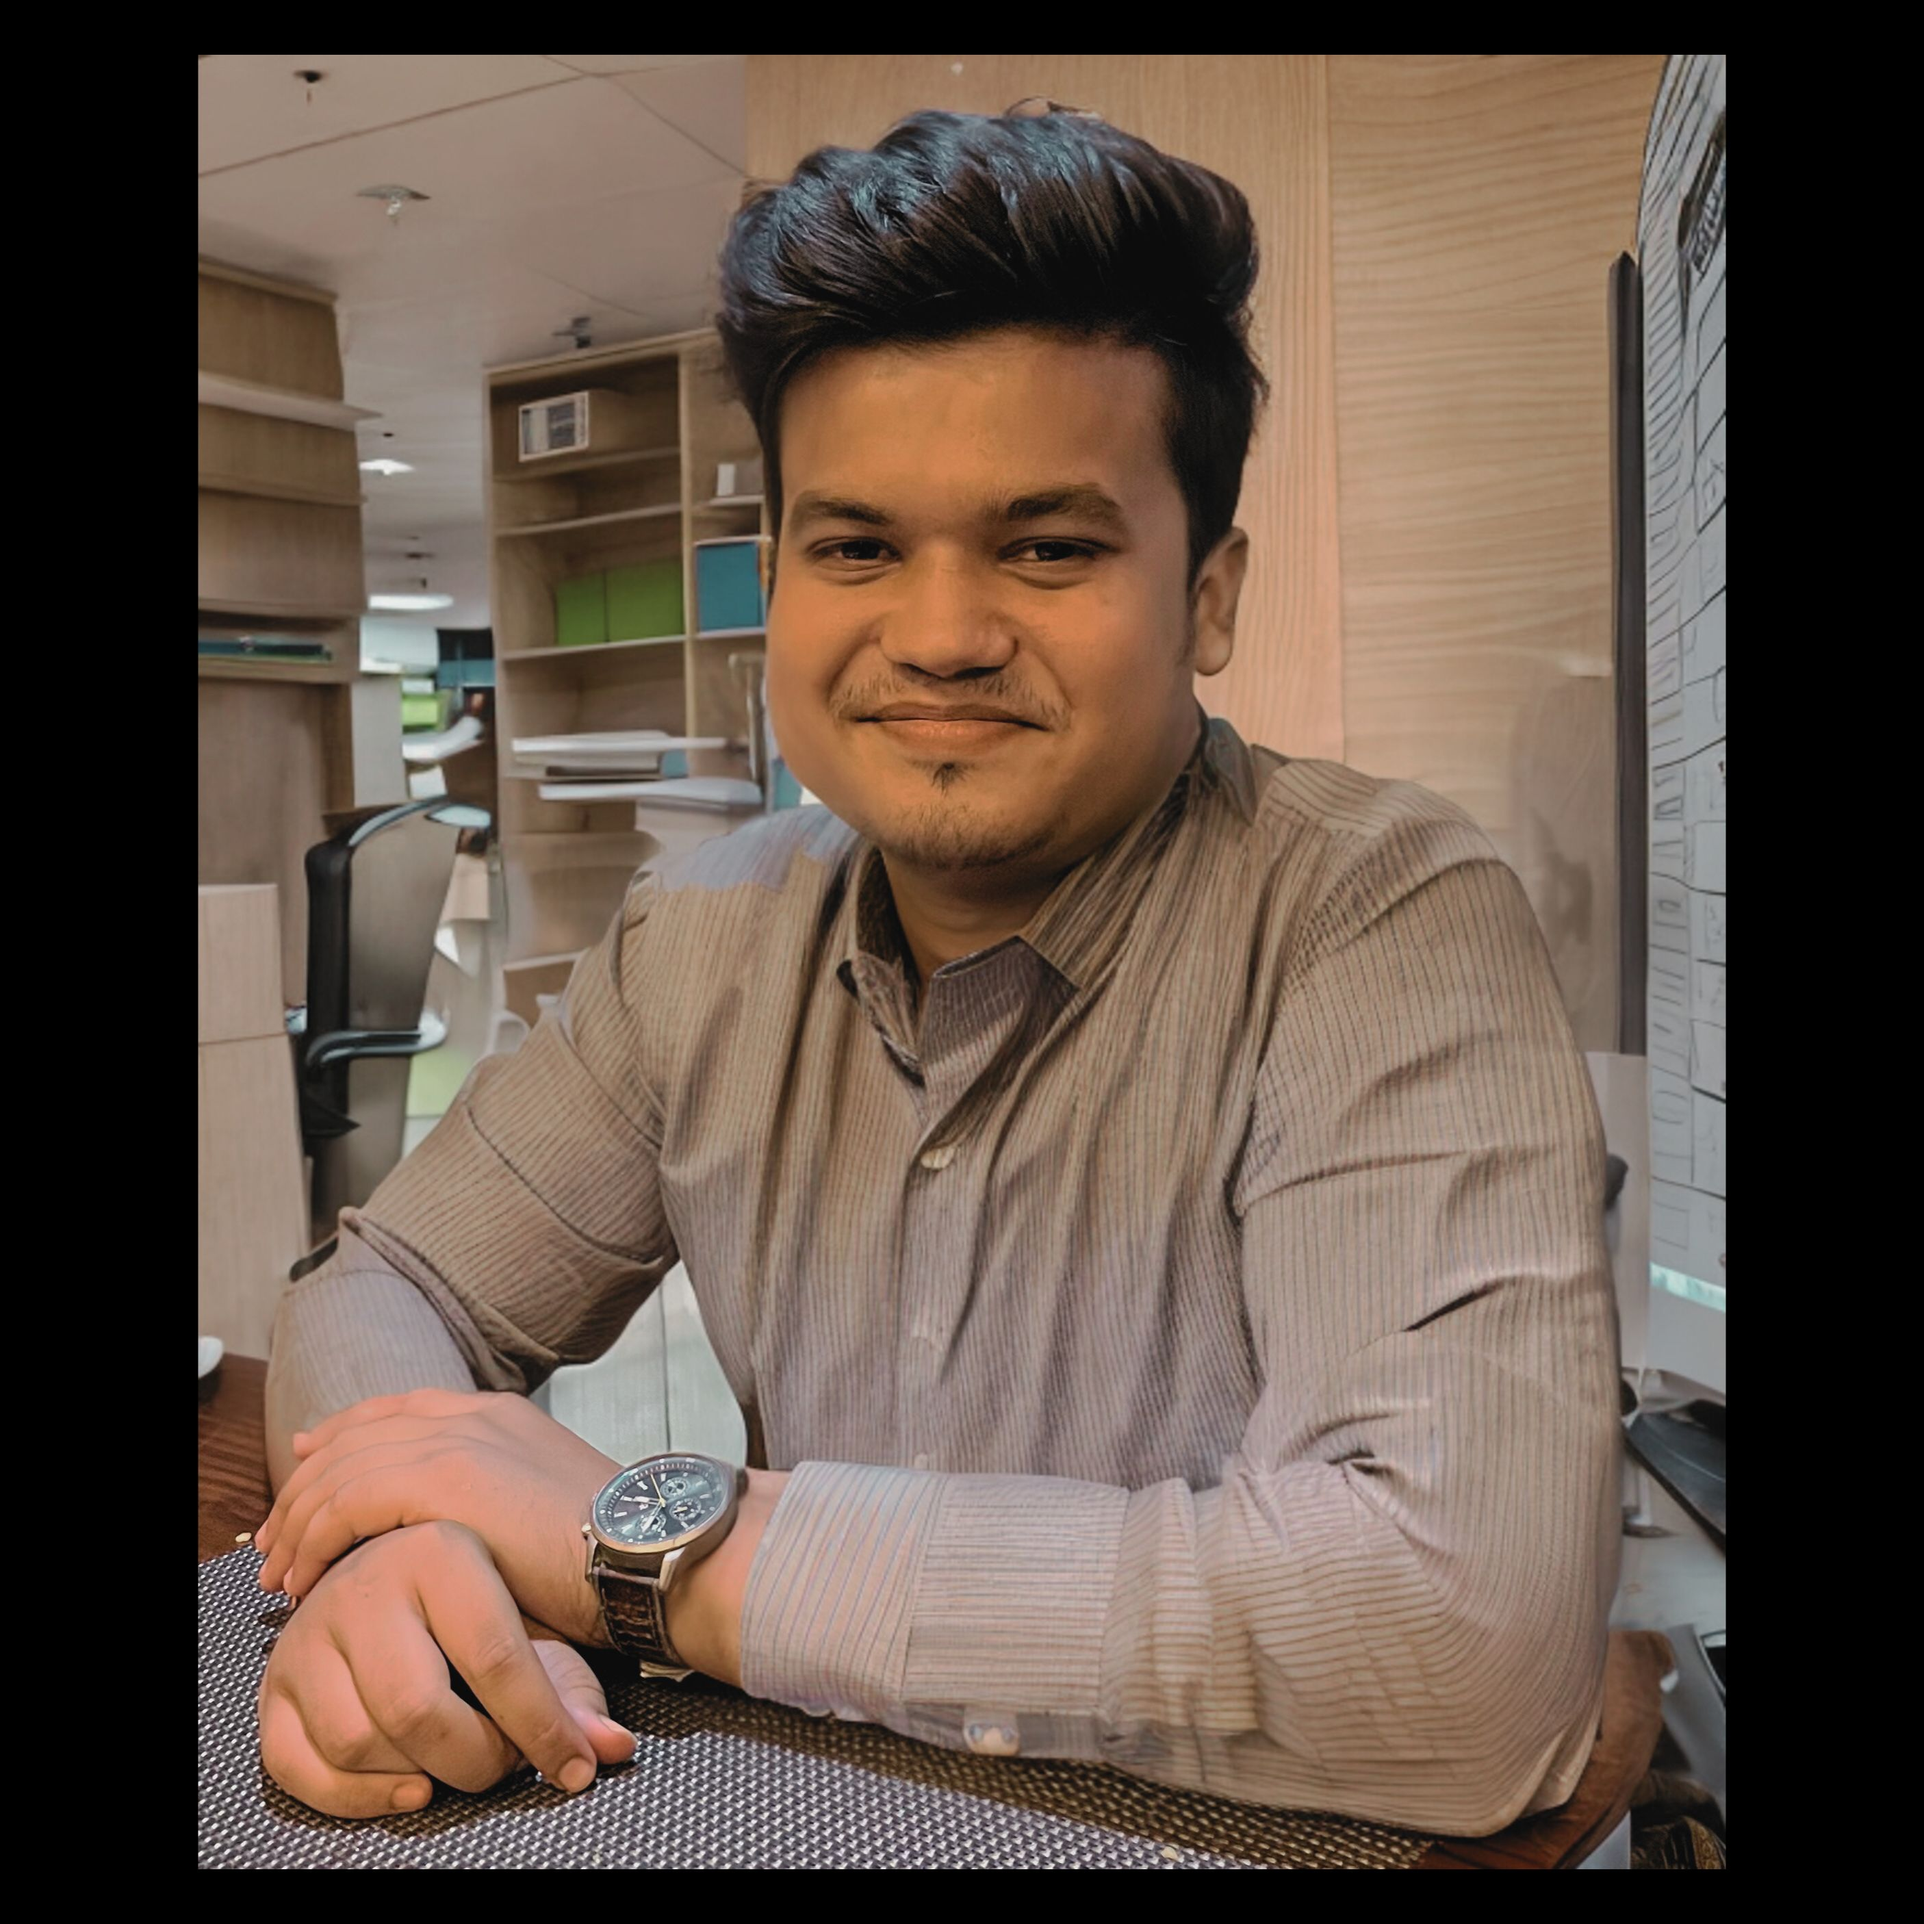
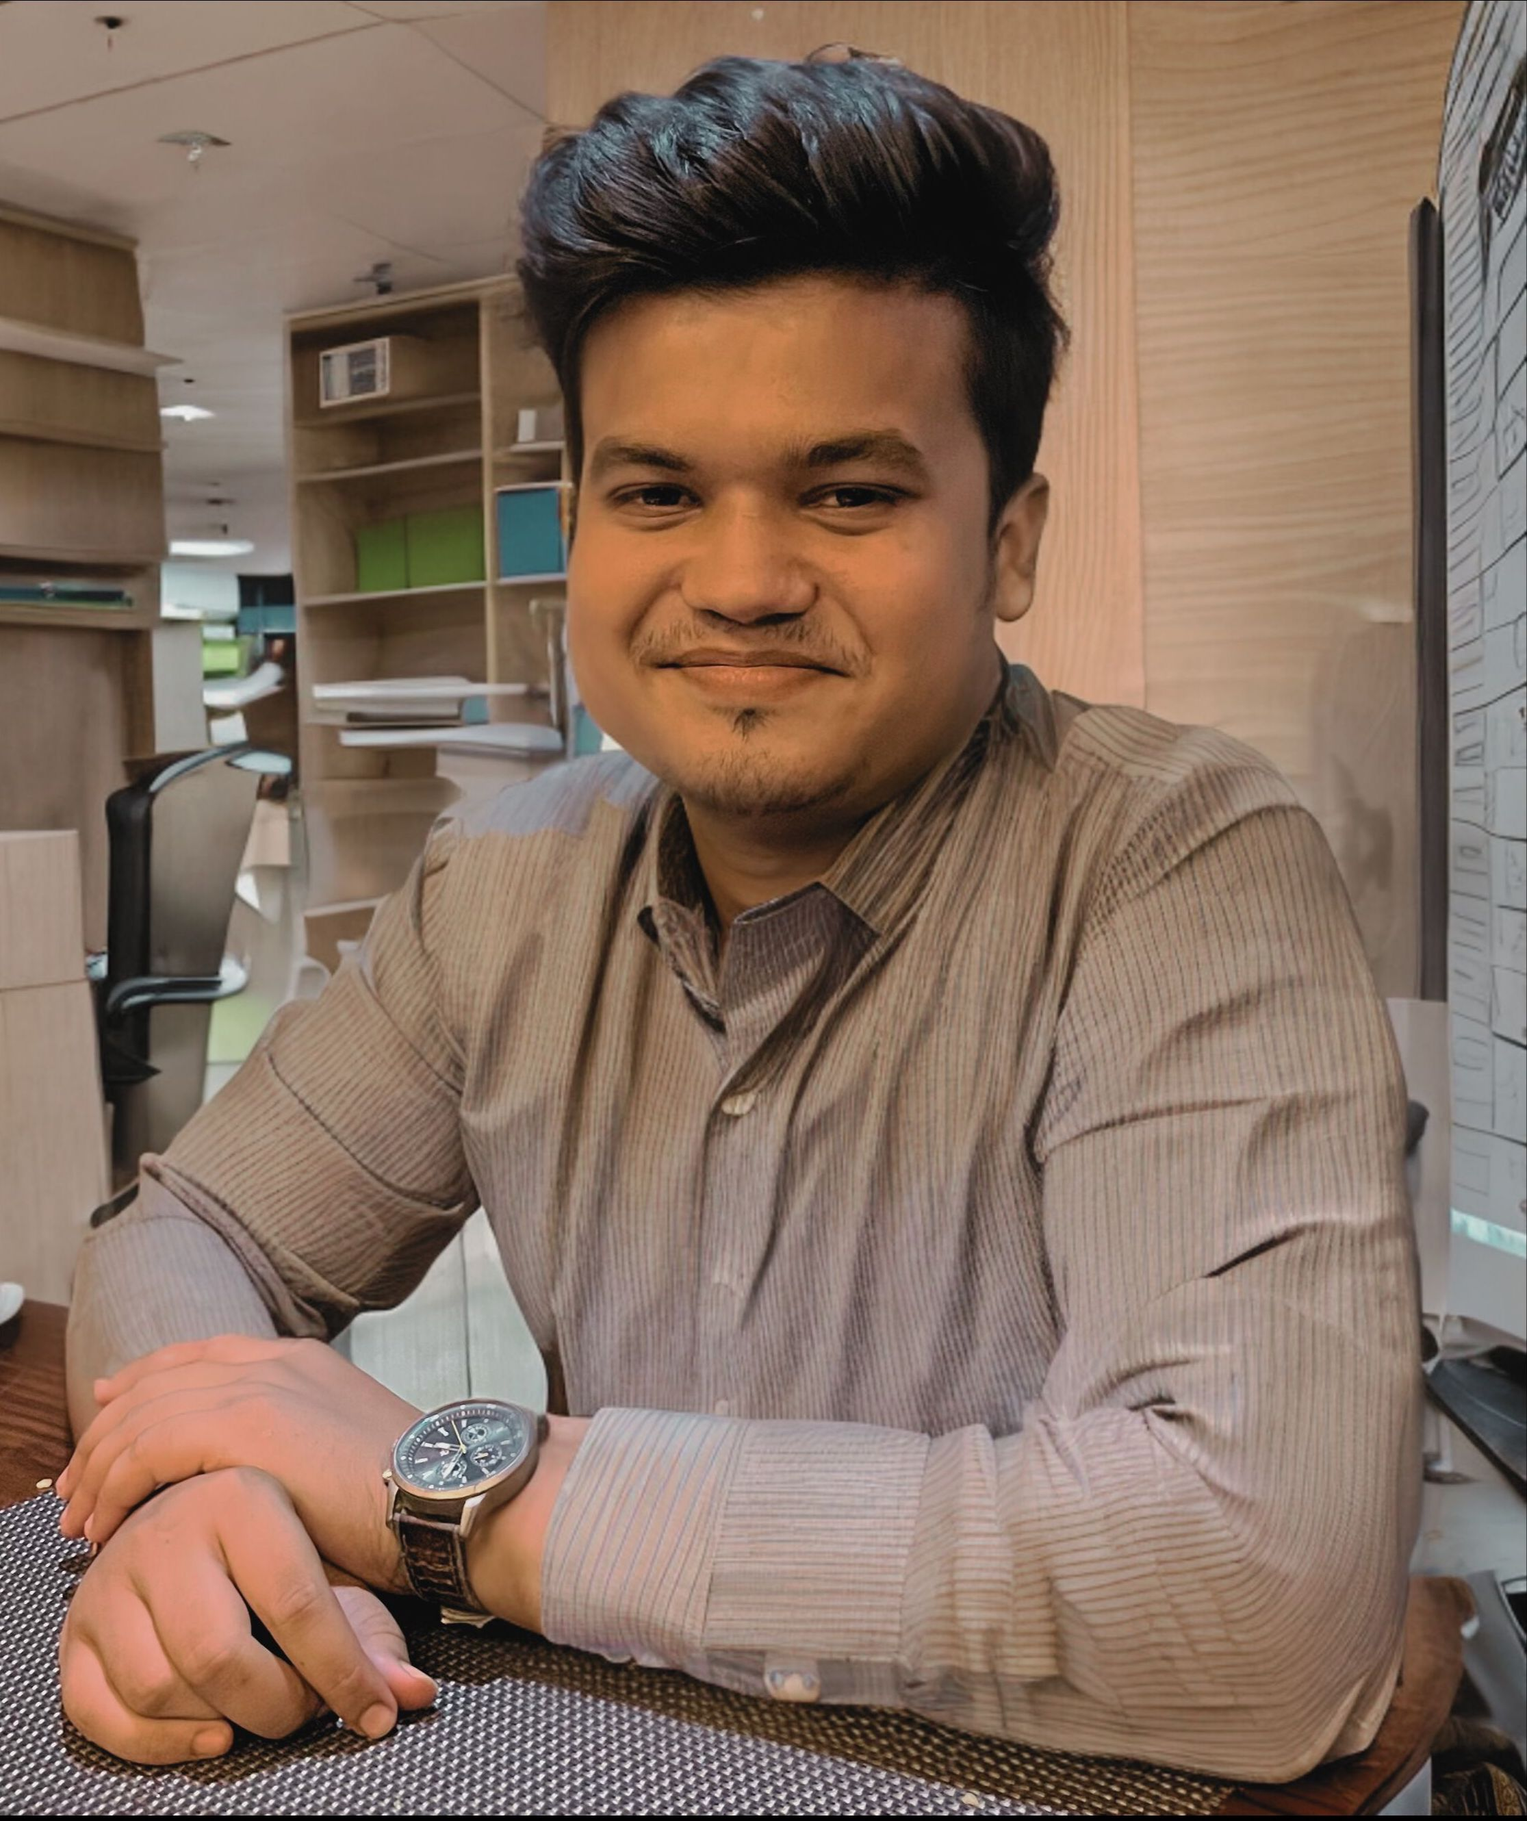
refactor: added backdrop and refactored heading

diff --git a/Styles.css b/Styles.css
@@ -1,4 +1,5 @@
 @import url('https://fonts.googleapis.com/css2?family=Bricolage+Grotesque:opsz,wght@10..48,200;10..48,400;10..48,800&display=swap');
+@import url('https://fonts.googleapis.com/css2?family=Montserrat:wght@100&display=swap');
 
 :root{
 --black: hsla(0, 0%, 0%, 1);
@@ -7,11 +8,12 @@
 --platinum: rgb(238, 238, 238);
 --white: hsla(0, 0%, 100%, 1);
 --red: #ff206e;
+--eerie-black: #040a0f;
 --gradient: linear-gradient(90deg, rgba(252,163,17,1) 30%, rgba(255,32,110,1) 100%);
 }
 body{
     font-family: 'Bricolage Grotesque', sans-serif;
-    background-color: var(--black);
+    background-color: var(--eerie-black);
     margin: 0;
     color: var(--white);
     
@@ -100,7 +102,7 @@ ul{
 
 nav {
     background: linear-gradient(90deg, rgba(252,163,17,1) 30%, rgba(255,32,110,1) 100%);
-    padding: 1rem;
+    padding: 0.001rem 1rem;
     /* border-radius: 0rem 1rem; */
 }
 nav .link{
@@ -150,12 +152,36 @@ section h2{
 }
 .img--id{
     height:20rem ;
-    width:20.2rem ;
+    width:17rem ;
     display: block;
     margin: auto;
-    border-radius: 5rem;
+    border-radius: 1rem;
 
 }
+
+/* @backdrop */
+.backdrop{
+    display: block;
+    background-image: url('images/backdrop-4.jpeg');
+    height: 30rem;
+    padding: 0rem 0rem;
+    background-size: cover;
+    overflow: hidden;
+    margin-bottom: 1rem;
+    transition-duration: 3000ms;
+}
+.heading--backdrop{
+    
+    font-size: 3rem;
+    text-align: center;
+    font-family: 'Montserrat', sans-serif;
+    backdrop-filter: brightness(60%) blur(3px);
+    display: block;
+    padding: 13rem 0rem;
+    margin: 0 0; 
+}
+
+
 /* @footer */
 
 footer{

diff --git a/Index.html b/Index.html
@@ -15,11 +15,9 @@
             <li class="list-item-inline"><a href="\" class="link">Blogs</a></li>
         </ul>
     </nav>
-    <br>
-    <header class="hero">
-        <img class="hero--img" src="/images/Hero-img-3.svg" alt="Hero Image">
-        <h1 class="hero--heading container-center">Hey there, It's Amrit Mohanty. I try to be the best<span> Web Dev</span> I can be</h1>
-    </header>
+    <div class="backdrop">
+        <h1 class="heading--backdrop">Amrit Kumar Mohanty<br><span><em>Web developer</em></span></h1>
+    </div>
     <section class="off-white container-center">
         <h2>Technologies</h2>
         <ul class="">

diff --git a/lib/components.html b/lib/components.html
@@ -89,6 +89,11 @@
     </section>
 </section>
     <hr>
+    <h2>@backdrop</h2>
+    <div class="backdrop">
+        <h1 class="heading--backdrop">Amrit Kumar Mohanty<br><span><em>Web developer</em></span></h1>
+    </div>
+    <hr>
     <h2>@footer</h2>
     <footer>
         <div>Lorem ipsum dolor sit, amet consectetur adipisicing elit. Mollitia expedita maiores error sequi veniam quasi asperiores, sunt natus officia optio. Neque cupiditate voluptas unde laborum illum commodi facere esse dolorum.</div>
